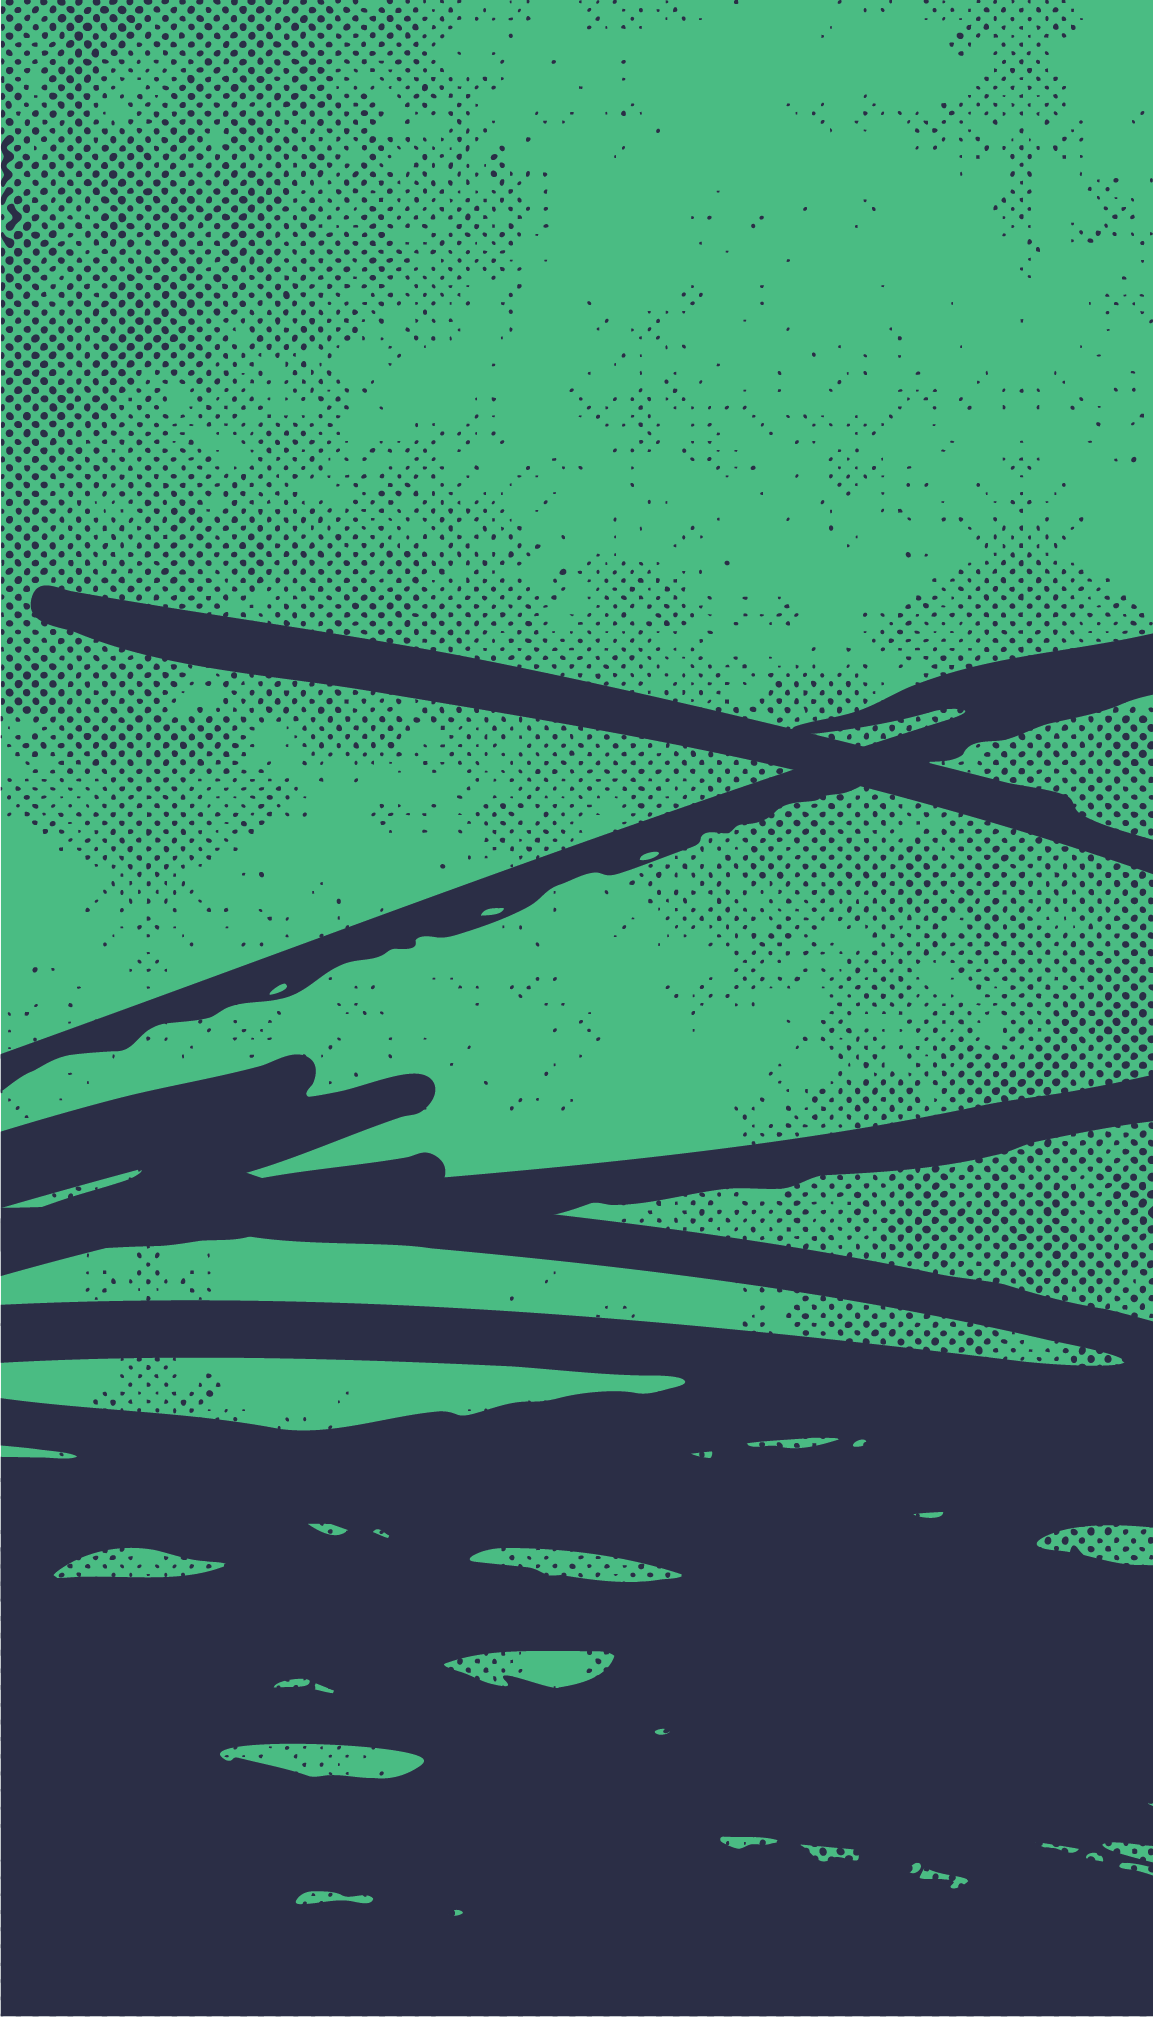
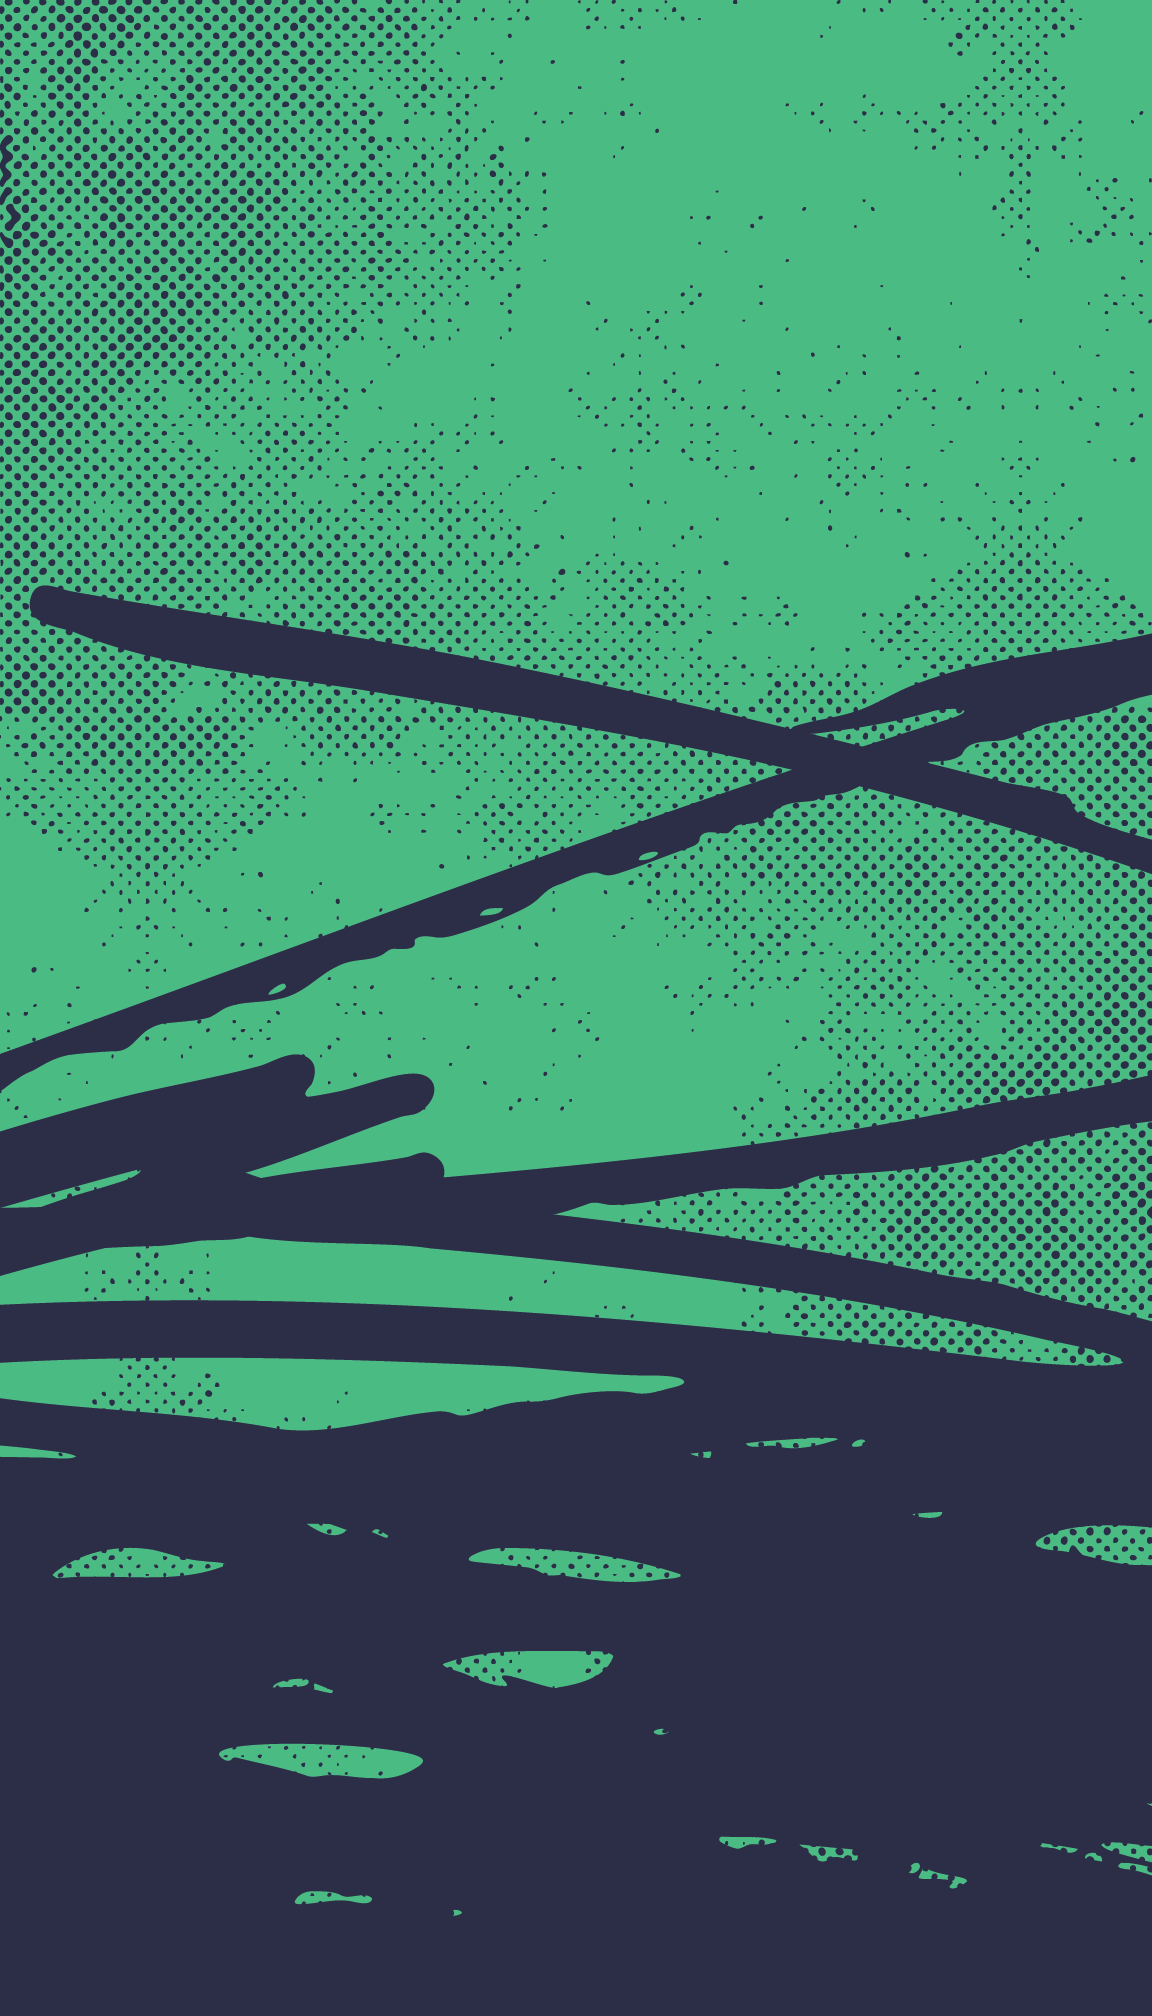
Fixing background image and body padding tweaks

diff --git a/static/styles.css b/static/styles.css
@@ -21,7 +21,7 @@ body {
   flex-direction: column;
   align-items: center;
   justify-content: center;
-  padding: 2rem 1.5rem;
+  padding: 1rem 1rem;
   font-family: 'Calibre', -apple-system, BlinkMacSystemFont, 'Segoe UI', Roboto, sans-serif;
 }
 